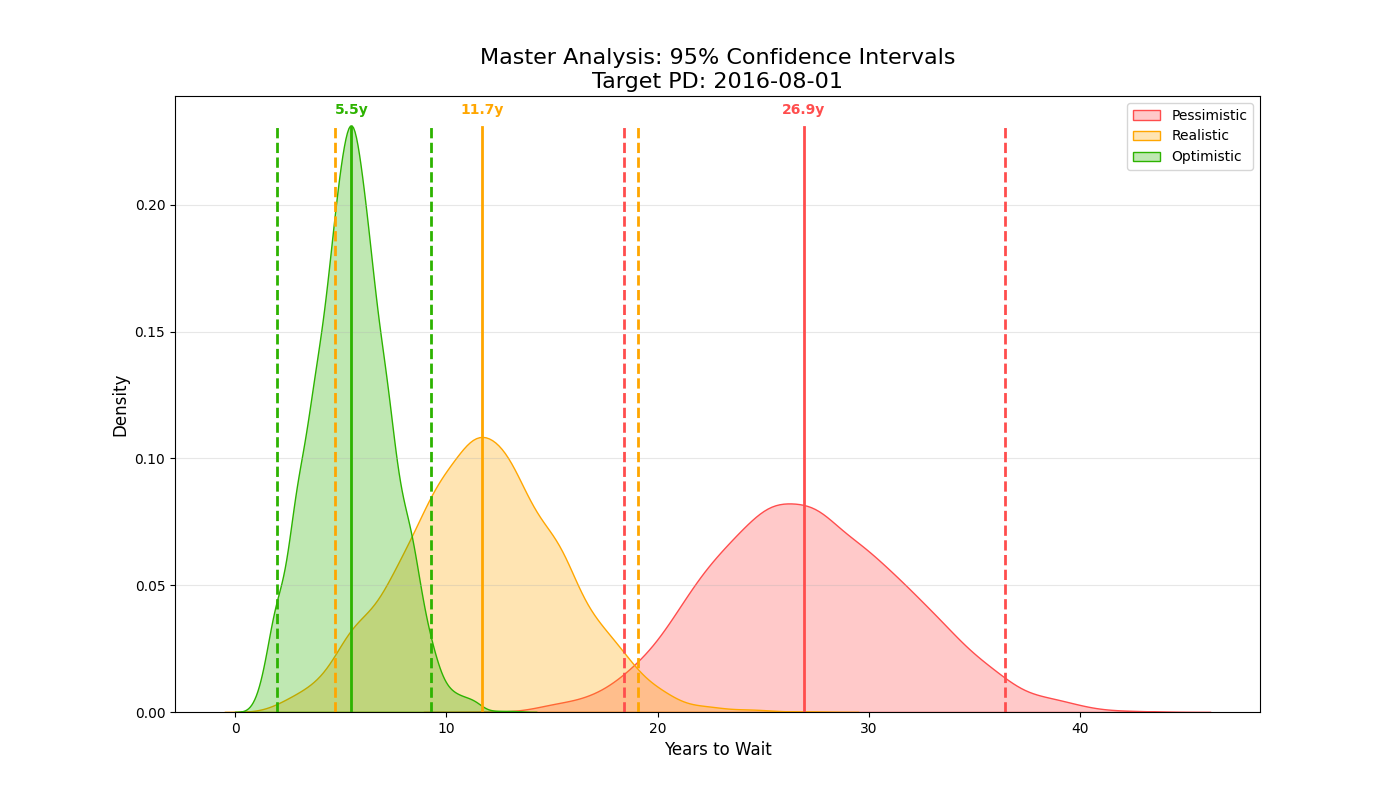
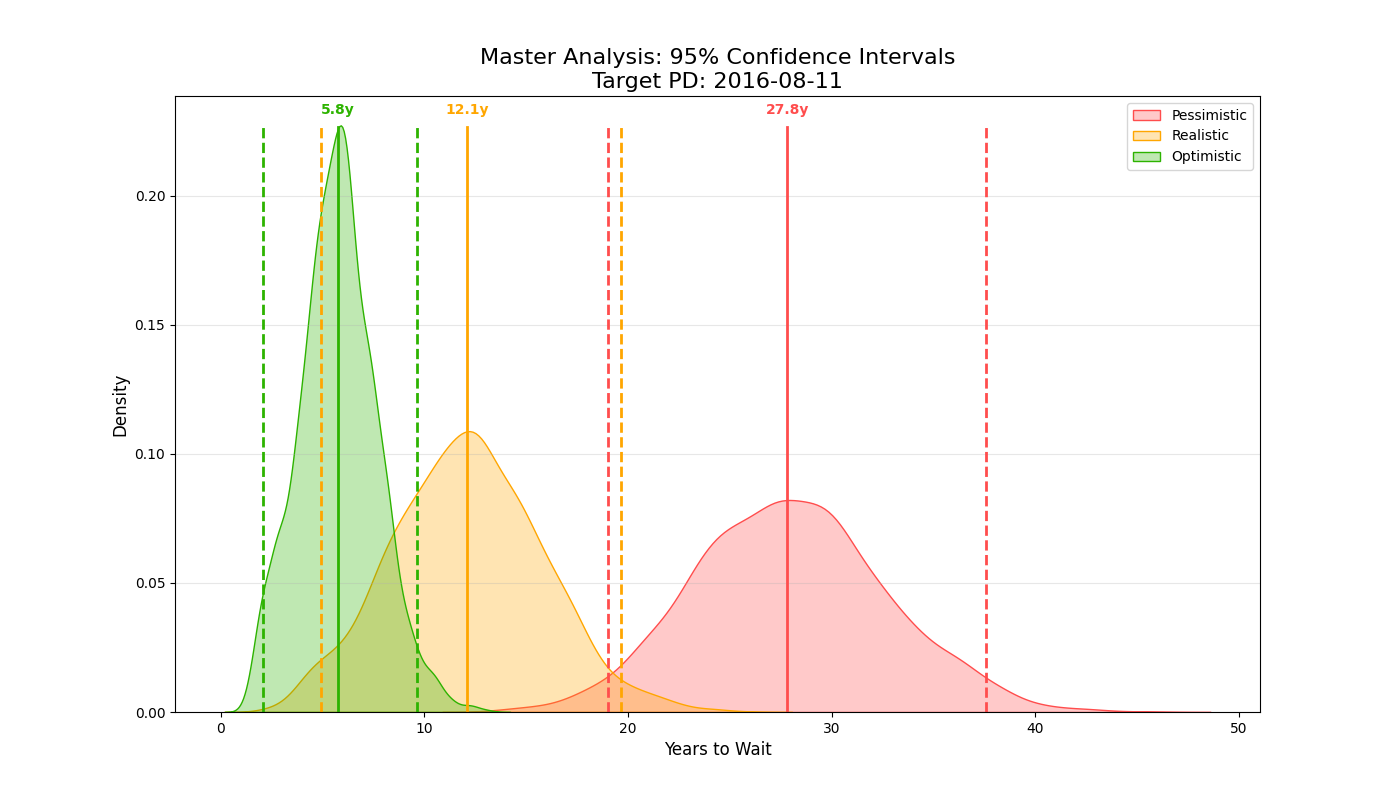
added a third algorithm for the monte_carlo simulation

diff --git a/scripts/monte_carlo_backup.py b/scripts/monte_carlo_backup.py
@@ -1,118 +1,116 @@
-# slow backup that needs to be optimized
-# import os
-# import pandas as pd
+import os
+import pandas as pd
+import numpy as np
+import matplotlib.pyplot as plt
+from flatten_data import VisaDataProcessor
 
-# import numpy as np
-# import matplotlib.pyplot as plt
-# from flatten_data import VisaDataProcessor
+def get_spillover_for_year():
+    scenarios = ["pessimistic", "realistic", "optimistic"]
+    probabilties = [0.6, 0.3, 0.1]
+    chosen_scenario = np.random.choice(scenarios, p=probabilties)
+    if chosen_scenario == "pessimistic":
+        return np.random.randint(0, 50)
+    elif chosen_scenario == "realistic":
+        return np.random.randint(100, 500)
+    else:
+        return np.random.randint(2000, 8000)
 
-# def get_spillover_for_year():
-#     scenarios = ["pessimistic", "realistic", "optimistic"]
-#     probabilties = [0.6, 0.3, 0.1]
-#     chosen_scenario = np.random.choice(scenarios, p=probabilties)
-#     if chosen_scenario == "pessimistic":
-#         return np.random.randint(0, 50)
-#     elif chosen_scenario == "realistic":
-#         return np.random.randint(100, 500)
-#     else:
-#         return np.random.randint(2000, 8000)
-
-# def run_monte_carlo(vdp, priority_date, country_cap=0.07, pref_percent=0.286, annual_quota=140000, sims=10000):
-#     inv = vdp.flatten()
-#     inv = inv[inv["Visa Status"] == "Awaiting Availability"].sort_values("Date")
+def run_monte_carlo(vdp, priority_date, country_cap=0.07, pref_percent=0.286, annual_quota=140000, sims=10000):
+    inv = vdp.flatten()
+    inv = inv[inv["Visa Status"] == "Awaiting Availability"].sort_values("Date")
     
-#     inv_counts = inv["Count"].astype(float).values
+    inv_counts = inv["Count"].astype(float).values
     
-#     hidden_total = float(vdp.get_i140_snapshot())
+    hidden_total = float(vdp.get_i140_snapshot())
     
-#     monthly_quota = (annual_quota * country_cap * pref_percent) / 12
-#     target_date = pd.to_datetime(priority_date).to_datetime64()
-#     results = []
+    monthly_quota = (annual_quota * country_cap * pref_percent) / 12
+    target_date = pd.to_datetime(priority_date).to_datetime64()
+    results = []
     
-#     if len(inv_dates) == 0:
-#         max_inv_date = np.datetime64('1677-09-21')
-#     else:
-#         max_inv_date = inv_dates.max()
+    if len(inv_dates) == 0:
+        max_inv_date = np.datetime64('1677-09-21')
+    else:
+        max_inv_date = inv_dates.max()
         
-#     is_hidden = target_date > max_inv_date
+    is_hidden = target_date > max_inv_date
     
-#     for _ in range(sims):
-#         sim_hidden = hidden_total
-#         sim_counts = inv_counts.copy()
+    for _ in range(sims):
+        sim_hidden = hidden_total
+        sim_counts = inv_counts.copy()
         
-#         idx = 0
-#         max_idx = len(sim_counts)
+        idx = 0
+        max_idx = len(sim_counts)
         
-#         months_passed = 0
-#         user_reached = False
+        months_passed = 0
+        user_reached = False
         
-#         spillover = get_spillover_for_year() / 12
+        spillover = get_spillover_for_year() / 12
         
-#         while not user_reached:
-#             if months_passed > 0 and months_passed % 12 == 0:
-#                 spillover = get_spillover_for_year() / 12
+        while not user_reached:
+            if months_passed > 0 and months_passed % 12 == 0:
+                spillover = get_spillover_for_year() / 12
                 
-#             uscis_efficiency = np.random.uniform(0.8, 1.2)
-#             current_supply = monthly_quota * uscis_efficiency + spillover
+            uscis_efficiency = np.random.uniform(0.8, 1.2)
+            current_supply = monthly_quota * uscis_efficiency + spillover
             
-#             annual_dropout = np.random.uniform(0.02, 0.08)
-#             monthly_dropout_factor = 1 - (annual_dropout) / 12
-#             sim_hidden *= monthly_dropout_factor
+            annual_dropout = np.random.uniform(0.02, 0.08)
+            monthly_dropout_factor = 1 - (annual_dropout) / 12
+            sim_hidden *= monthly_dropout_factor
             
-#             if idx < max_idx:
-#                 if not is_hidden and inv_dates[idx] > target_date:
-#                     user_reached = True
-#                     break
+            if idx < max_idx:
+                if not is_hidden and inv_dates[idx] > target_date:
+                    user_reached = True
+                    break
                 
-#                 sim_counts[idx] -= current_supply
+                sim_counts[idx] -= current_supply
                 
-#                 while idx < max_idx and sim_counts[idx] <= 0:
-#                     leftover_visas = abs(sim_counts[idx])
-#                     idx += 1
+                while idx < max_idx and sim_counts[idx] <= 0:
+                    leftover_visas = abs(sim_counts[idx])
+                    idx += 1
                     
-#                     if idx < max_idx:
-#                         sim_counts[idx] -= leftover_visas
-#                     else:
-#                         sim_hidden -= leftover_visas
-#             else:
-#                 sim_hidden -= current_supply
+                    if idx < max_idx:
+                        sim_counts[idx] -= leftover_visas
+                    else:
+                        sim_hidden -= leftover_visas
+            else:
+                sim_hidden -= current_supply
                 
-#             if is_hidden and idx >= max_idx and sim_hidden <= 0:
-#                 user_reached = True
-#             if not is_hidden and idx >= max_idx:
-#                 user_reached = True
+            if is_hidden and idx >= max_idx and sim_hidden <= 0:
+                user_reached = True
+            if not is_hidden and idx >= max_idx:
+                user_reached = True
                 
-#             months_passed += 1
-#             if months_passed > 1200:
-#                 break
+            months_passed += 1
+            if months_passed > 1200:
+                break
                 
-#         results.append(months_passed / 12)
+        results.append(months_passed / 12)
         
-#     return results
+    return results
 
-# def plot_simulation_results(results, country, preference):
-#     if not results:
-#         return
-#     plt.figure(figsize=(10, 6))
-#     plt.hist(results, bins=100, color="skyblue", edgecolor="black", alpha=0.7)
-#     avg_years = np.mean(results)
-#     median_years = np.median(results)
-#     safe_years = np.percentile(results, 90)
-#     plt.axvline(median_years, color="green", linestyle="dashed", linewidth=2, label=f"Median : {median_years:.1f} Years")
-#     plt.axvline(safe_years, color='red', linestyle='dashed', linewidth=2, label=f'90% Certainty: {safe_years:.1f} Years')
-#     plt.title(f'Monte Carlo Simulation: Green Card Wait Time ({country} {preference})', fontsize=14)
-#     plt.xlabel('Years to Wait', fontsize=12)
-#     plt.ylabel('Frequency (Number of Simulations)', fontsize=12)
-#     plt.legend()
-#     plt.grid(axis='y', alpha=0.3)
-#     output_file = "simulation_result.png"
-#     plt.savefig(output_file)
-#     print(f"Plot saved to {output_file}")
-#     plt.close()
+def plot_simulation_results(results, country, preference):
+    if not results:
+        return
+    plt.figure(figsize=(10, 6))
+    plt.hist(results, bins=100, color="skyblue", edgecolor="black", alpha=0.7)
+    avg_years = np.mean(results)
+    median_years = np.median(results)
+    safe_years = np.percentile(results, 90)
+    plt.axvline(median_years, color="green", linestyle="dashed", linewidth=2, label=f"Median : {median_years:.1f} Years")
+    plt.axvline(safe_years, color='red', linestyle='dashed', linewidth=2, label=f'90% Certainty: {safe_years:.1f} Years')
+    plt.title(f'Monte Carlo Simulation: Green Card Wait Time ({country} {preference})', fontsize=14)
+    plt.xlabel('Years to Wait', fontsize=12)
+    plt.ylabel('Frequency (Number of Simulations)', fontsize=12)
+    plt.legend()
+    plt.grid(axis='y', alpha=0.3)
+    output_file = "simulation_result.png"
+    plt.savefig(output_file)
+    print(f"Plot saved to {output_file}")
+    plt.close()
 
-# if __name__ == "__main__":
-#     file = os.path.join(os.getcwd(), "data", "eb_inventory_october_2025.xlsx")
-#     vdp = VisaDataProcessor(file, "India", "EB2")
-#     final_results = run_monte_carlo(vdp, "2014-12-01", sims=10000)
-#     print(final_results[:10])
-#     plot_simulation_results(final_results, "India", "EB2")
+if __name__ == "__main__":
+    file = os.path.join(os.getcwd(), "data", "eb_inventory_october_2025.xlsx")
+    vdp = VisaDataProcessor(file, "India", "EB2")
+    final_results = run_monte_carlo(vdp, "2014-12-01", sims=10000)
+    print(final_results[:10])
+    plot_simulation_results(final_results, "India", "EB2")

diff --git a/scripts/monte_carlo_improved.py b/scripts/monte_carlo_improved.py
@@ -1,23 +1,93 @@
 import os
-import shutil
 import pandas as pd
 import numpy as np
 import matplotlib.pyplot as plt
 from flatten_data import VisaDataProcessor
+from tqdm import tqdm
 
-def monte_carlo(vdp, sims = 10000):
-    data = vdp.flatten()
-    data = data[data["Preference Category"].str.contains("2nd")]
-    data = data[data["Visa Status"] == "Awaiting Availability"].sort_values("Date")
+def gen_sim_parameters(total_greencards = 140_000, country_cap = 0.07, category_preference = 0.286, n_years = 100):
+    base_quota = total_greencards * country_cap * category_preference
+    ranges = {
+        "zero": (0, 2000),
+        "low": (2000, 15000),
+        "moderate": (15000, 40000),
+        "high": (40000, 60000),
+        "extreme": (100000, 160000)
+    }
+    scenarios = list(ranges.keys())
+    probs = [0.3, 0.35, 0.25, 0.08, 0.02]
+    choices = [np.random.choice(scenarios, p=probs) for _ in range(n_years)]
+    spillover_list = [np.random.randint(ranges[choices[i]][0], ranges[choices[i]][1] + 1) for i in range(n_years)]
+    return base_quota, spillover_list
+def monte_carlo(vdp, preference, country, sims=1000):
+    #paremeters
+    target_date = "2016-08-11"
+    target_date = pd.to_datetime(target_date)
+    simulation_start_date = pd.Timestamp("2025-10-01")
+    i_140_inventory_date = pd.Timestamp("2025-06-01")
+    eb_inventory = vdp.flatten()
+    eb_inventory = eb_inventory[(eb_inventory["Visa Status"] == "Awaiting Availability") & (eb_inventory["Country Of Chargeability"] == country) & (eb_inventory["Preference Category"].str.contains(preference))].sort_values("Date")
+    last_inv_date = eb_inventory.iloc[-1]["Date"]
+    people_ahead = -1
+    print(last_inv_date)
+    #get people count
+    if target_date > last_inv_date:
+        people_ahead = eb_inventory["Count"].sum()
+        print(people_ahead)
+        gap_days = (i_140_inventory_date - last_inv_date).days
+        gap_position_days = (target_date - last_inv_date).days
+        percent_in_gap = min(gap_position_days / gap_days, 1.0)
+        i_140_inventory_count = vdp.get_i140_snapshot() * percent_in_gap
+        print(i_140_inventory_count)
+        people_ahead += i_140_inventory_count
+    else:
+        people_ahead = eb_inventory[eb_inventory["Date"] < target_date]["Count"].sum()
+        print(people_ahead)
+    #calculate year
+    results = []
+    for _ in tqdm(range(sims), desc="running monte carlo simulations"):
+        quota, spillovers = gen_sim_parameters()
+        months_passed = 0
+        current_backlog = people_ahead
+        year_index = 0
+        supply = quota
+        supply += spillovers[year_index]
+        while current_backlog > 0:
+            if supply > current_backlog:
+                months_passed += current_backlog/supply * 12
+                break
+            current_backlog -= supply
+            months_passed += 12
+            year_index += 1
+            safe_index = min(year_index, len(spillovers) - 1)
+            supply = quota + spillovers[year_index]
+        results.append(months_passed / 12)
+    return results
+def plot_histogram(results):
+    p50 = np.percentile(results, 50)
+    p95 = np.percentile(results, 95)
+    mean = np.mean(results)
 
-    hidden_back_log = vdp.get_i140_snapshot()
-    print(hidden_back_log)
-    print(data)
-    data["Count"] = data["Count"].astype(float)
-    print(data)
-    start_date = data["Date"].iloc[0] if not data.empty else pd.Timestamp.now()
-    print(start_date)
-        
+    plt.style.use("dark_background")
+    plt.figure(figsize=(10, 6))
+
+    plt.hist(results, bins=20, color="#3B82F6", edgecolor="white", alpha=0.85)
+
+    plt.axvline(p50, color="white", linestyle="-", linewidth=2, label=f"Median (50%): {p50:.1f} years")
+    plt.axvline(p95, color="#F87171", linestyle="--", linewidth=2, label=f"95%: {p95:.1f} years")
+
+    plt.xlabel("Years Passed")
+    plt.ylabel("Monte Carlo Frequency")
+    plt.title("Monte Carlo Simulation")
+
+    plt.grid(True, axis="y", alpha=0.35)
+    plt.legend()
+    plt.savefig("simulation_images/Monte_Carlo_Simulation.png")
+    plt.show()
+
+
 file_path = os.path.join(os.getcwd(), "data", "eb_inventory_october_2025.xlsx")
 vdp = VisaDataProcessor(file_path, "India", "EB2")
-monte_carlo(vdp)
+results = monte_carlo(vdp, "EB2", "India", sims=1000)
+print(results)
+plot_histogram(results)

diff --git a/scripts/monte_carlo.py b/scripts/monte_carlo.py
@@ -202,7 +202,7 @@ if __name__ == "__main__":
     engine = VisualVisaSim(file_path, "India", "EB2", sims=3000)
     vdp = VisaDataProcessor(file_path, "China", "EB1")
     vdp.create_line_chart()
-    target_date = "2016-08-01"
+    target_date = "2016-08-11"
     print(f"--- Running Simulations for {target_date} ---")
 
     r_pess = engine.run_simulation(target_date, "Pessimistic")
